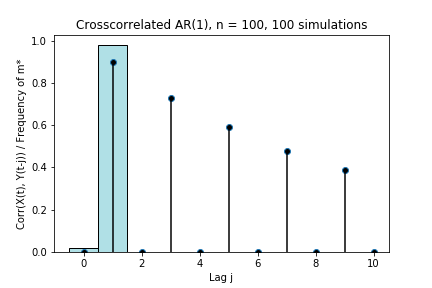
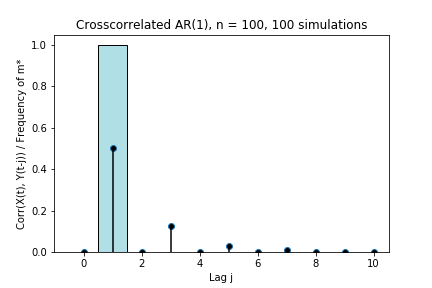
Added MGC-TS to estimation of optimal lag. Publication ready figures.

diff --git a/mgcpy/independence_tests/cdcv.py b/mgcpy/independence_tests/cdcv.py
@@ -95,22 +95,24 @@ class CDCV(IndependenceTest):
         bias_correct = 0 if self.which_test == 'biased' else 3
 
         # Collect the test statistic by lag, and sum them for the full test statistic.
-        test_stats_by_lag = np.zeros(M+1)
-        test_stats_by_lag[0] = (self.cross_covariance_sum(matrix_X, matrix_Y))/(n-bias_correct)
+        dependence_by_lag = np.zeros(M+1)
+        dependence_by_lag[0] = (self.cross_covariance_sum(matrix_X, matrix_Y))/(n-bias_correct)
+        test_statistic = dependence_by_lag[0]
         for j in range(1,M+1):
             dist_mtx_X = matrix_X[j:n,j:n]
             dist_mtx_Y = matrix_Y[0:(n-j),0:(n-j)]
-            test_stats_by_lag[j] = ((1 - j/(p*(M+1)))**2)*(self.cross_covariance_sum(dist_mtx_X, dist_mtx_Y))/(n-j-bias_correct)
+            dependence_by_lag[j] = ((1 - j/(p*(M+1)))**2)*(self.cross_covariance_sum(dist_mtx_X, dist_mtx_Y))/(n-j-bias_correct)
+            test_statistic += dependence_by_lag[j]
+            dependence_by_lag[j] += dependence_by_lag[j-1]
 
             # In asymmetric test, we do not add the following terms.
             # dist_mtx_X = matrix_X[0:(n-j),0:(n-j)]
             # dist_mtx_Y = matrix_Y[j:n,j:n]
             # test_statistic += ((1 - j/(p*(M+1)))**2)*(self.cross_covariance_sum(dist_mtx_X, dist_mtx_Y))/(n-j-bias_correct)
-        test_statistic = test_stats_by_lag.sum()
 
         # Reporting optimal lag
-        test_stats_by_lag = np.divide(test_stats_by_lag, np.array(range(1, M+2)))
-        optimal_lag = np.argmax(test_stats_by_lag)
+        dependence_by_lag = np.divide(dependence_by_lag, np.array(range(1, M+2)))
+        optimal_lag = np.argmax(dependence_by_lag)
         test_statistic_metadata = { 'dist_mtx_X' : matrix_X,
                                     'dist_mtx_Y' : matrix_Y,
                                     'optimal_lag' : optimal_lag }
